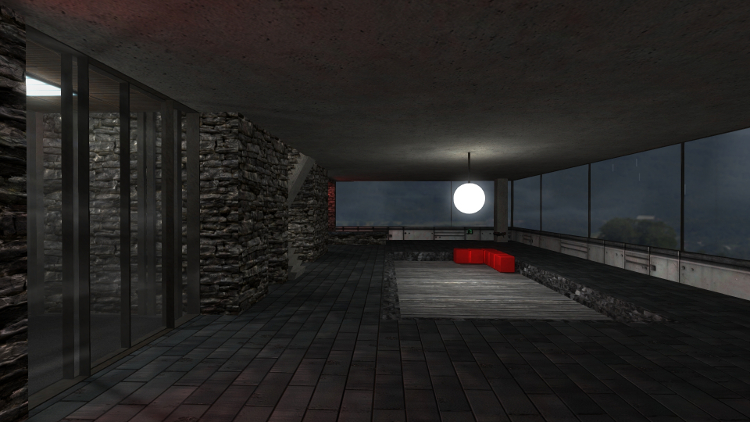
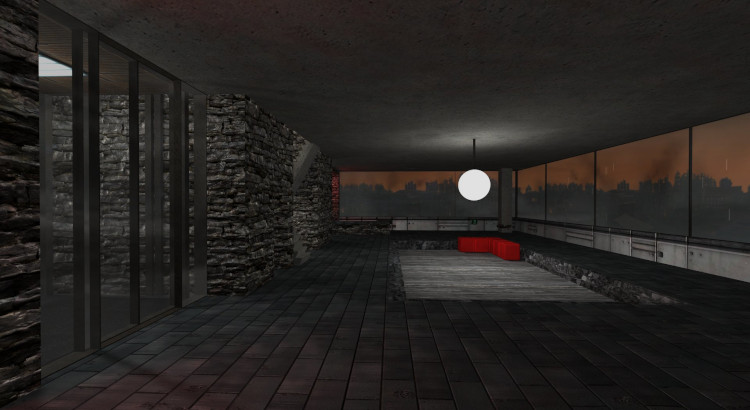
Updated some map images and donated amount.

diff --git a/index.html b/index.html
@@ -16,7 +16,7 @@
     <style>
     :root {
         --halfyearamount: 256;
-        --donatedamount: 27.28;
+        --donatedamount: 115.28;
         --donatedpercentage: calc(var(--donatedamount) / var(--halfyearamount) * 100%);
         --bodypadding: 8px;
         --headerheight: 90px;
@@ -489,7 +489,7 @@
                                         <li>Fixed bug that could cause crashes in single player mode</li>
                                         <li>Added Discord button in the main menu to easily join the Discord server</li>
                                         <li>Fixed a map difference error bug after reinstalling a map</li>
-                                        <li>Added option to override the sky from the fog script (only relevant to mappers)</li>
+                                        <li>Added possibility to change the sky in a map without causing map difference errors</li>
                                         <li>Removed the sponsor banner</li>
                                         <li>Increased default time that messages appear in the screen to 6 seconds and can be changed and remembered now</li>
                                     </ul>            
@@ -1095,7 +1095,7 @@ sudo make install</textarea>
                         <div class="sponsorbutton github">&nbsp;❤&nbsp;<span style="font-size: 1.1em">Sponsor on GitHub</span>&nbsp;</div>
                     </a>
                     &nbsp;
-                    <div class="sponsorprogress">&nbsp;€27.28 of €256 for 6 months&nbsp;</div>
+                    <div class="sponsorprogress">&nbsp;€115.28 of €256 for 6 months&nbsp;</div>
                 </td>
             </tr>
         </table>
